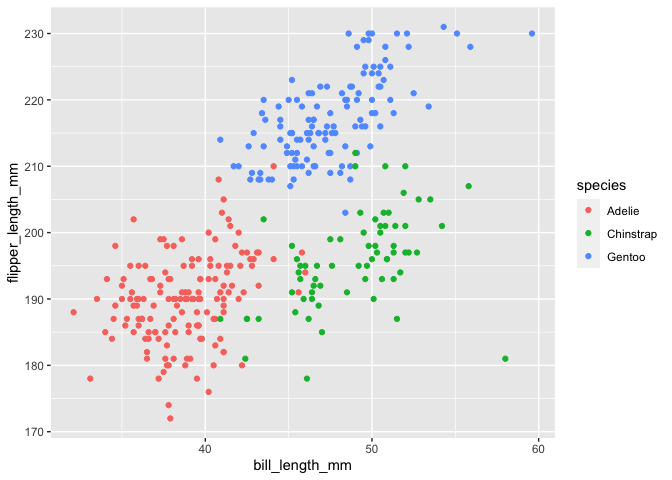
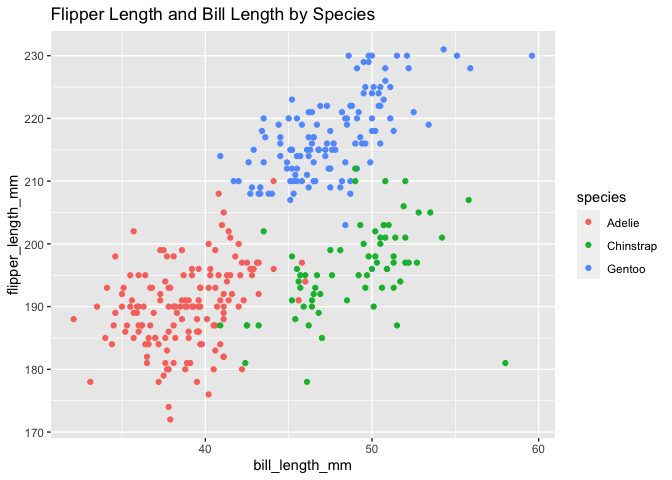
cleaning up comments in r markdown

diff --git a/P8105_hw1_km3529.md b/P8105_hw1_km3529.md
@@ -8,20 +8,20 @@ This is my solution to HW1.
 library(tidyverse)
 ```
 
-    ## ── Attaching packages ─────────────────────────────────────────── tidyverse 1.3.0 ──
+    ## ── Attaching packages ─────────────────────────────────────── tidyverse 1.3.0 ──
 
     ## ✓ ggplot2 3.3.2     ✓ purrr   0.3.4
     ## ✓ tibble  3.0.3     ✓ dplyr   1.0.2
     ## ✓ tidyr   1.1.2     ✓ stringr 1.4.0
     ## ✓ readr   1.3.1     ✓ forcats 0.5.0
 
-    ## ── Conflicts ────────────────────────────────────────────── tidyverse_conflicts() ──
+    ## ── Conflicts ────────────────────────────────────────── tidyverse_conflicts() ──
     ## x dplyr::filter() masks stats::filter()
     ## x dplyr::lag()    masks stats::lag()
 
 ## Problem 1
 
-create a data frame with the specified element.
+Create a data frame with the specified element.
 
 ``` r
 prob1_df =
@@ -39,13 +39,13 @@ Take the mean of each variable in my data frame.
 mean(pull(prob1_df, samp))
 ```
 
-    ## [1] 0.2393443
+    ## [1] -0.224768
 
 ``` r
 mean(pull(prob1_df, samp_gt_0))
 ```
 
-    ## [1] 0.6
+    ## [1] 0.4
 
 ``` r
 mean(pull(prob1_df, char_vec))
@@ -68,16 +68,20 @@ mean(pull(prob1_df, factor_vec))
 I can take the mean of numbers and logical but not the mean of character
 or factor.
 
+Convert to numeric.
+
 ``` r
 as.numeric(pull(prob1_df, samp_gt_0)) 
 as.numeric(pull(prob1_df, char_vec))
 as.numeric(pull(prob1_df, factor_vec))
 ```
 
-I can take take the mean of logical and factor, but not character. This
-happens because logical is converted to 0 or 1. Factor is converted to
-1, 2, or 3. However, character is not converted to numbers, which is why
-you cannot take the mean.
+I can take take the mean of logical and factor, but not character.
+Logical is converted to 0 or 1. Factor is converted to 1, 2, or 3.
+However, character is not converted to numbers, which why you cannot
+take the mean.
+
+Second chunk of code:
 
 ``` r
 as.numeric(pull(prob1_df, samp_gt_0)) * (samp = rnorm(10))
@@ -89,35 +93,14 @@ as.numeric(as.factor(pull(prob1_df, samp_gt_0))) * (samp = rnorm(10))
 
 ``` r
 data("penguins", package = "palmerpenguins")
-
-view(penguins)
-variable.names(penguins)
 ```
 
-    ## [1] "species"           "island"            "bill_length_mm"   
-    ## [4] "bill_depth_mm"     "flipper_length_mm" "body_mass_g"      
-    ## [7] "sex"               "year"
+The penguins data set examines species, island, bill\_length\_mm,
+bill\_depth\_mm, flipper\_length\_mm, body\_mass\_g, sex, year. There
+are 344 rows and 8 columns. The mean flipper length is 200.9152047.
 
 ``` r
-variable.names(penguins)
-```
-
-    ## [1] "species"           "island"            "bill_length_mm"   
-    ## [4] "bill_depth_mm"     "flipper_length_mm" "body_mass_g"      
-    ## [7] "sex"               "year"
-
-There are penguin observations. The data examines species, island,
-bill\_length\_mm, bill\_depth\_mm, flipper\_length\_mm, body\_mass\_g,
-sex, year.
-
-There are 344 rows and 8 columns.
-
-The mean flipper length is 200.9152047.
-
-Note to self: add title
-
-``` r
-ggplot (data = penguins, aes(x = bill_length_mm, y = flipper_length_mm, color = species)) + geom_point()
+ggplot (data = penguins, aes(x = bill_length_mm, y = flipper_length_mm, color = species)) + geom_point() + ggtitle("Flipper Length and Bill Length by Species")
 ```
 
     ## Warning: Removed 2 rows containing missing values (geom_point).
